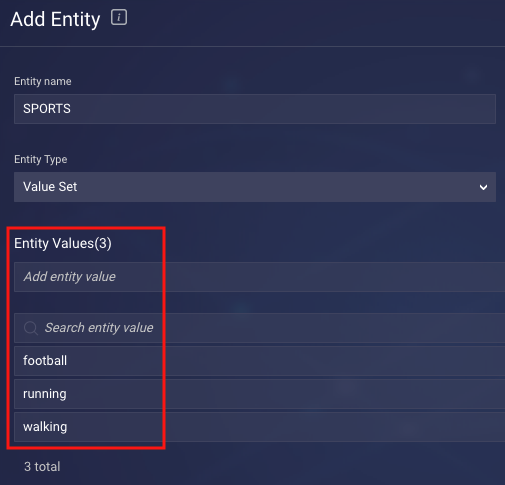
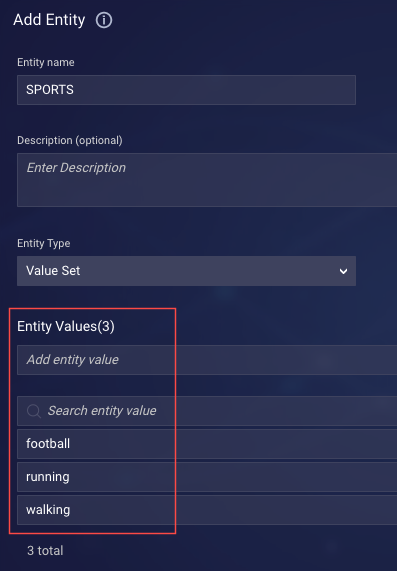
BA-6951 Add Description field to intents/entities

diff --git a/pages/Documents/ConversationalAI/IntentBuilder/entities.md b/pages/Documents/ConversationalAI/IntentBuilder/entities.md
@@ -34,7 +34,7 @@ As their name suggests, Value Set entities are those that have a defined set of 
 * running
 * walking
 
-<img class="fancyimage" style="width:500px" src="img/ConvoBuilder/ib_entitiesValueSet.png">
+<img class="fancyimage" style="width:400px" src="img/ConvoBuilder/ib_entitiesValueSet.png">
 
 Whenever the user's utterance contains one of these entity values (e.g., "I'm interested in running"), the bot detects this, invokes the `SPORTS` entity, and substitutes it into the utterance before determining the consumer's intent. This means, when you add training phrases for the intent, instead of adding these...
 
@@ -112,6 +112,7 @@ You can see from the example below, that having 2 entities match the training ph
 3. In the upper-right corner, click **Add Entity**.
 4. Specify the following:
     * **Entity Name**: Enter the name of the entity using alphanumeric characters (no special characters). Consider using all capital letters and underscores (instead of spaces) as a convention; this makes the entities readily visible when they are used in intents and knowledge bases.
+    * **Description**: Enter a short phrase describing the entity. While this field is optional, it's often useful. Many entity names can be technical. A description adds clarity and is particularly helpful to a person not familiar with the domain.
     * **Entity Type**: Select "Value Set."
     * **Entity Values**: Enter each entity value.
 5. Click **Save**.
@@ -129,6 +130,7 @@ Regular Expression entities are available only in domains using the [LivePerson 
 3. In the upper-right corner, click **Add Entity**.
 4. Specify the following:
     * **Entity Name**: Enter the name of the entity using alphanumeric characters (no special characters). Consider using all capital letters and underscores (instead of spaces) as a convention; this makes the entities readily visible when they are used in intents and knowledge bases.
+    * **Description**: Enter a short phrase describing the entity. While this field is optional, it's often useful. Many entity names can be technical. A description adds clarity and is particularly helpful to a person not familiar with the domain.
     * **Entity Type**: Select "Regular Expression."
     * **Regular Expression**: Enter the regular expression. All standard [RegEx rules](https://www.regexlib.com/) apply.
     * **Sample Values**: Enter five (5) example values that conform to the regular expression. These values aren't used during entity detection; they're used during domain training to improve the model's performance with respect to intent matching. Within Intent Builder, the sample values also serve as easy-to-read examples of the regular expression, making the expression more understandable at a glance.

diff --git a/pages/Documents/ConversationalAI/IntentBuilder/intents.md b/pages/Documents/ConversationalAI/IntentBuilder/intents.md
@@ -52,6 +52,7 @@ You can't change the threshold when using intents (although you can do [this](kn
 
     * **Intent name**: Enter the intent name. A domain can have dozens of intents, so using a standard naming convention is important for being able to easily sort and find intents.
     * **Intent display name**: Enter the display name.
+    * **Description**: Enter a short phrase describing the intent. While this field is optional, it's often useful. Many intent names can be technical. A description adds clarity and is particularly helpful to a person not familiar with the domain.
     * **Intent type**: Select either "Intent" or "Meta Intent." For an introduction to meta intents, see [here](intent-builder-meta-intents.html).
     * **Training**: Enter as many training phrases as possible. The NLU engine uses training phrases in order to match a user's utterance with an intent. The more training phrases you include, the more likely it is that the NLU engine will accurately match the user's intent. Generally speaking, the phrases should be complete sentences (not long paragraphs, and not keywords). As an example, assume you have a "Check bill" intent. You might add the following training phrases, among others:
         * I want to check the status of my bill
